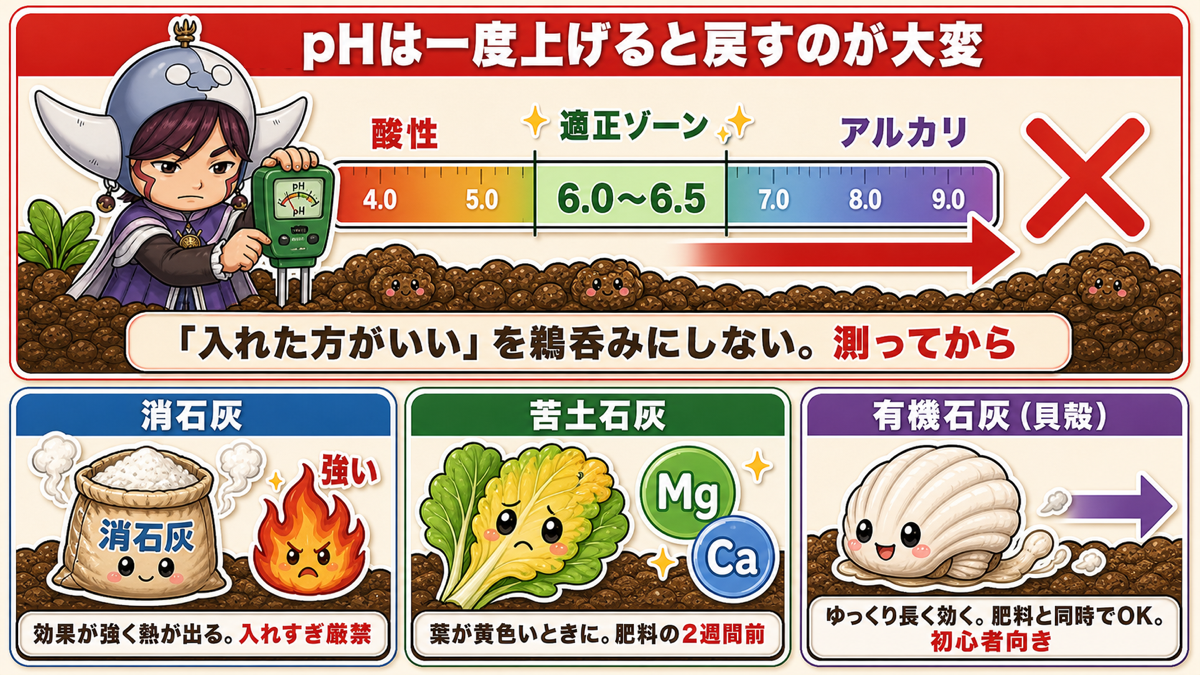
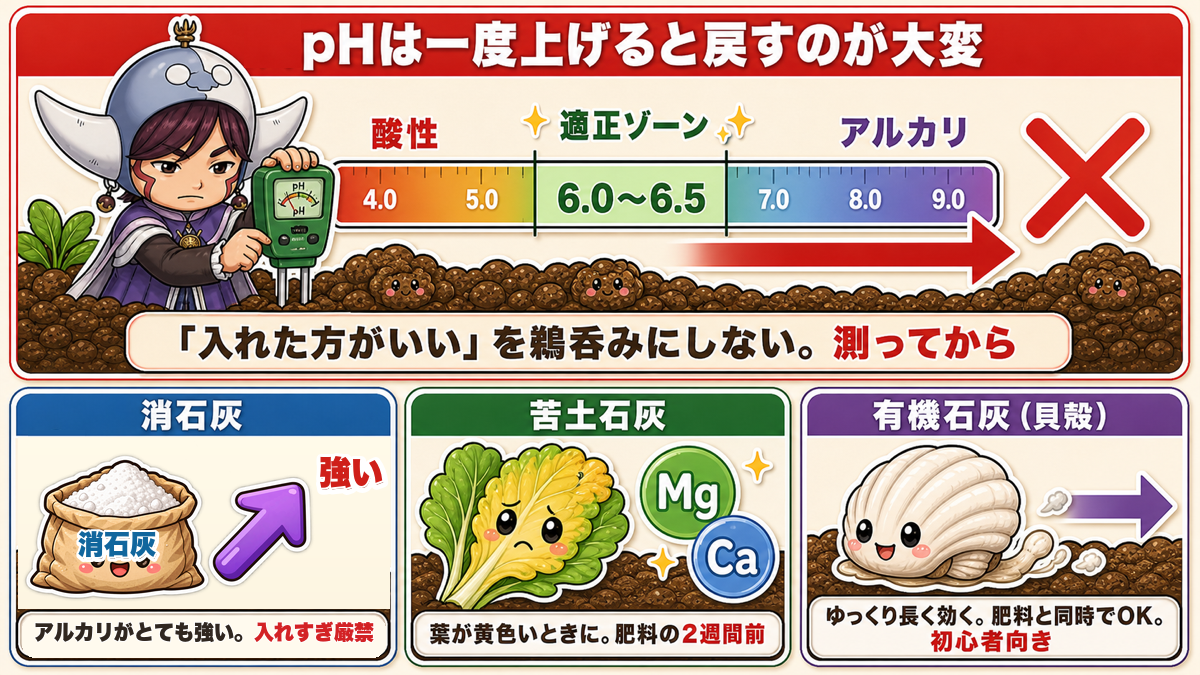
冬の畑仕事: 石灰の説明を訂正（熱の話を消し、アルカリの強さで整理）
- 図5: 消石灰の枠から炎と湯気を削除し「アルカリがとても強い」に
- 本文: 有機石灰の強みを「熱が出ない」→「アルカリ分がおだやかで根を傷めにくい」に訂正
  （消石灰も水をかけて熱は出ない。熱が出るのは生石灰）
- 本文: 肥料と同時に入れない理由（アンモニアガス）を補足
- 本文: 凍結と融解を「毎日何十回」→「毎晩くり返し、冬のあいだに何十回」に

Changed region(s): [[0.0, 0.6222, 0.3392, 0.9956]]

diff --git a/articles/19-fuyu-shigoto.html b/articles/19-fuyu-shigoto.html
@@ -166,7 +166,7 @@
   <ul><li>カルシウムの補給。カルシウムが足りないと白菜の中心部が変色したり、秋じゃがに黒い斑点が出たりします</li><li>pH（ピーエイチ／土の酸性・アルカリ性の度合い）の調整。日本は雨が酸性なので、放っておくと土は酸性に傾いていきます</li></ul>
   <p>カルシウムには面白い性質があって、植物の体の中を移動しにくいんです。だから足りない場所に体内でやりくりして回すことができない。土から吸い上げて補うしかありません。だからこそ土に入れておく意味があるわけですね。</p>
   <h3>3種類あって、性格がぜんぜん違います</h3>
-  <ul><li>消石灰（しょうせっかい）… 石灰岩を焼いてから、水を加えたもの。アルカリがとても強く、消毒に使われるほどです。強力なぶん、入れすぎは危険です</li><li>苦土石灰（くどせっかい）… マグネシウムとカルシウムが豊富。葉が黄色っぽいなど、生育異常があるときに向きます</li><li><strong>有機石灰</strong>（カキ殻などの貝殻を砕いたもの）… ゆっくり長く効きます。熱がほとんど出ないので、入れてすぐ肥料を入れたり植えたりできるのが強み。家庭菜園にはこれがいちばん使いやすいです</li></ul>
+  <ul><li>消石灰（しょうせっかい）… 石灰岩を焼いてから、水を加えたもの。アルカリがとても強く、消毒に使われるほどです。強力なぶん、入れすぎは危険です</li><li>苦土石灰（くどせっかい）… マグネシウムとカルシウムが豊富。葉が黄色っぽいなど、生育異常があるときに向きます</li><li><strong>有機石灰</strong>（カキ殻などの貝殻を砕いたもの）… ゆっくり長く効きます。アルカリ分がおだやかで根を傷めにくいので、入れてすぐ肥料を入れたり植えたりできるのが強み。家庭菜園にはこれがいちばん使いやすいです</li></ul>
   <p>初めての方には、<strong>有機石灰</strong>をおすすめします。ただし「ゆっくり効くから」と大量に入れるのはやめてください。時間差でしっかり効きます。</p>
   <p>もっと安全にいきたい方には、卵の殻から作った石灰もあります。多めに入れてもアルカリに寄りにくいので、微調整や試しに使うのに向いています。</p>
   <h3>これだけは守ってほしいこと</h3>
@@ -175,7 +175,7 @@
   <p>なので、簡易的なもので構わないので、測ってから入れてください。ホームセンターで売っている測定器で十分です。</p>
   <p>ほとんどの野菜は6〜6.5あたりで問題なく育ちます。例外として、さやえんどうやほうれん草は少しアルカリ寄りが好き。じゃがいもは逆に酸性寄りが好きです。</p>
   <h3>入れ方</h3>
-  <ul><li>量は<strong>1平方メートルあたり100cc程度</strong>で十分</li><li>消石灰と苦土石灰は、肥料を入れる2週間ほど前に。肥料と同じタイミングで入れない</li><li><strong>有機石灰</strong>はゆっくり効くので、肥料と同時でも大丈夫</li><li>入れたらしっかり耕して、土が乾いていれば水をやる（水がないと分解が進みません）</li></ul>
+  <ul><li>量は<strong>1平方メートルあたり100cc程度</strong>で十分</li><li>消石灰と苦土石灰は、肥料を入れる2週間ほど前に。肥料と同じタイミングで入れない（窒素の肥料と反応して、アンモニアのガスが出ます）</li><li><strong>有機石灰</strong>はゆっくり効くので、肥料と同時でも大丈夫</li><li>入れたらしっかり耕して、土が乾いていれば水をやる（水がないと分解が進みません）</li></ul>
   <p>ちなみに鶏ふんにも、アルカリ側に寄せる働きとカルシウム・マグネシウムを補う働きがあります。普段から鶏ふんを使っている方は、それだけで大きな欠乏症は出にくいですよ。</p>
 
   <h2 id="s6">⑥霜柱から、苗を守る</h2>
@@ -223,7 +223,7 @@
   <p>たいていの物質は冷えると縮みます。でも水は例外で、氷になるときに膨らむ。氷が水に浮くのも、これが理由ですね。</p>
   <p>さて、掘り起こした土の塊の中には、水がしみ込んでいます。夜になって気温が下がると、この水が凍って膨らむ。すると塊を内側から押し広げて、ひびを入れます。</p>
   <p>昼になると溶けて、押し広げられた分の隙間が残る。</p>
-  <p>これを毎日、何十回も繰り返す。それが冬の間に起きていることです。</p>
+  <p>これを毎晩くり返す。冬のあいだに何十回と重なります。それが冬の間に起きていることです。</p>
   <p><strong>つまり寒起こしとは、自然の耕運機に土を預ける作業なんですね。</strong>人が細かく砕くのではなく、氷に砕いてもらう。だから「荒く掘るだけでいい」わけです。</p>
   <p>同じ理屈で、冬に道路がひび割れるのも凍結と融解の繰り返しが原因です。畑と道路で、同じことが起きているんですよ。</p>
   <p>そして霜柱も、実は水の性質そのものです。地中の水が細い隙間を伝って地表まで吸い上げられ、そこで凍って柱になる。下から次々と水が来るので、柱は伸び続けて土を押し上げる。だから苗が浮くんですね。</p>
